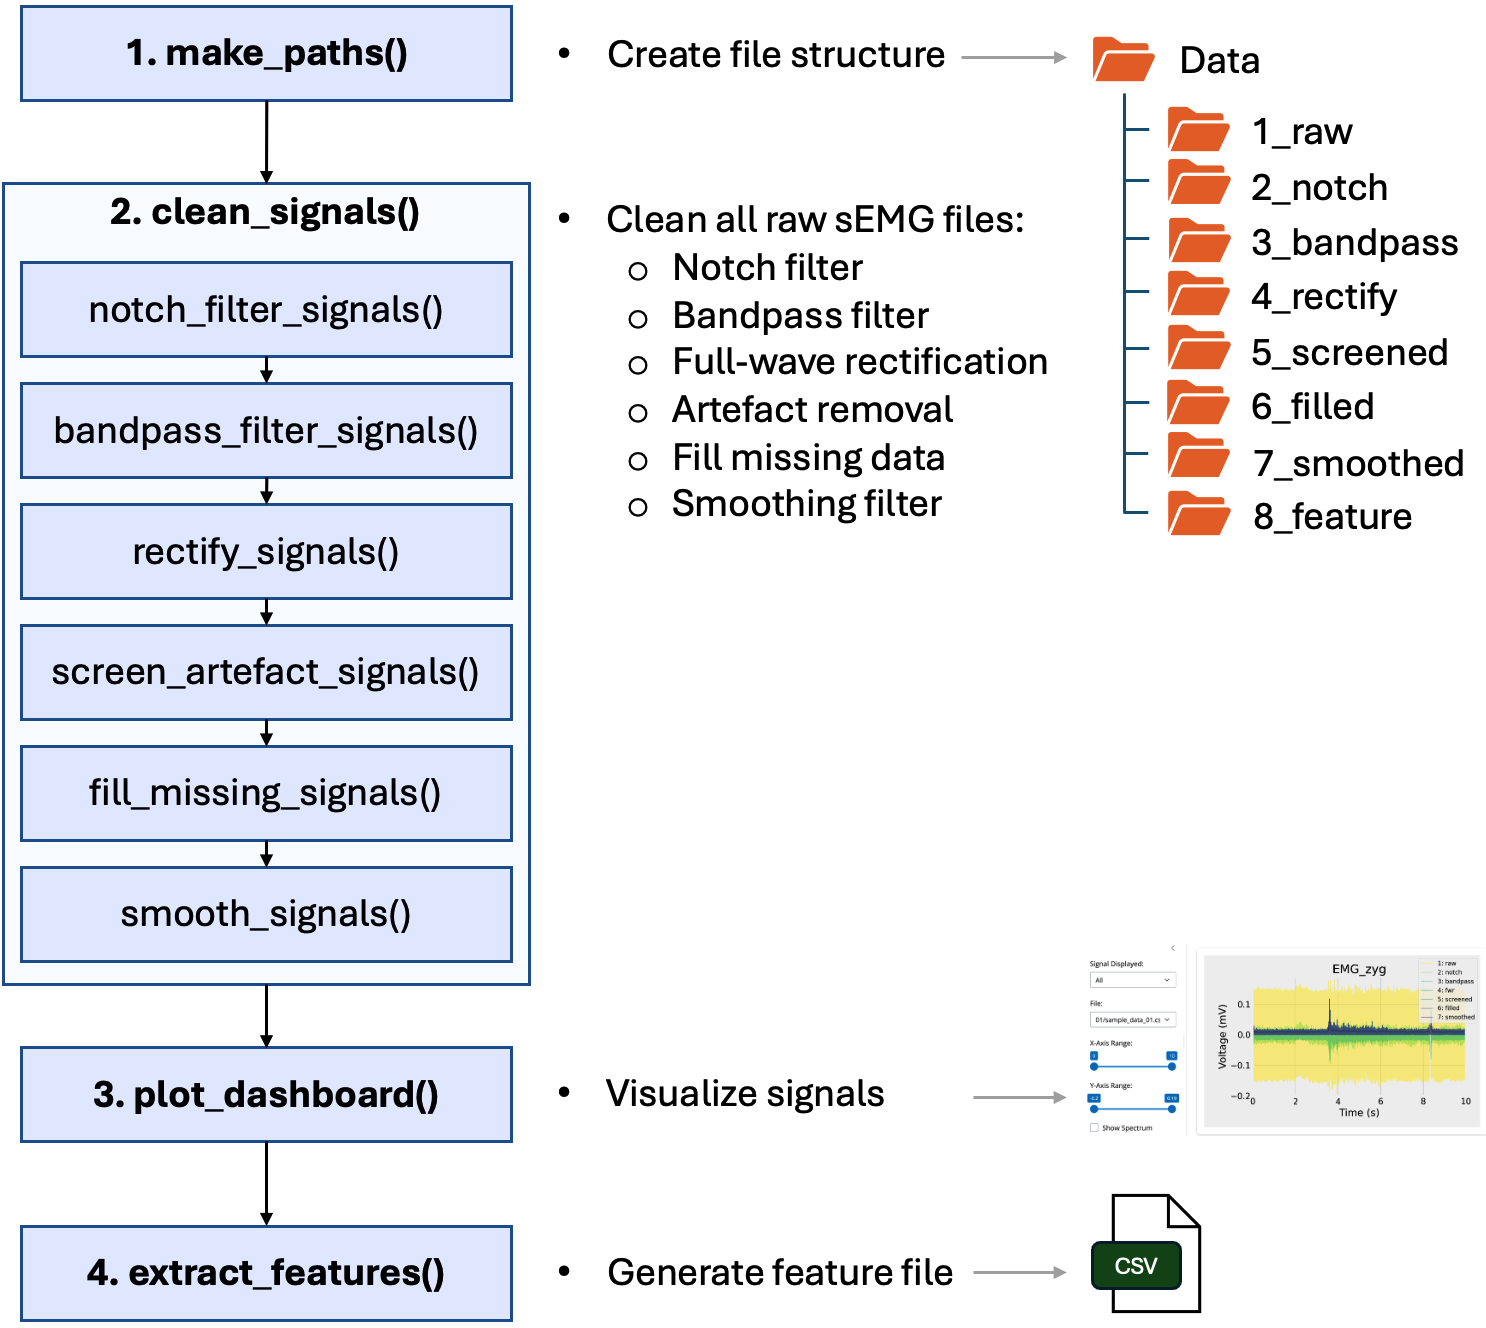
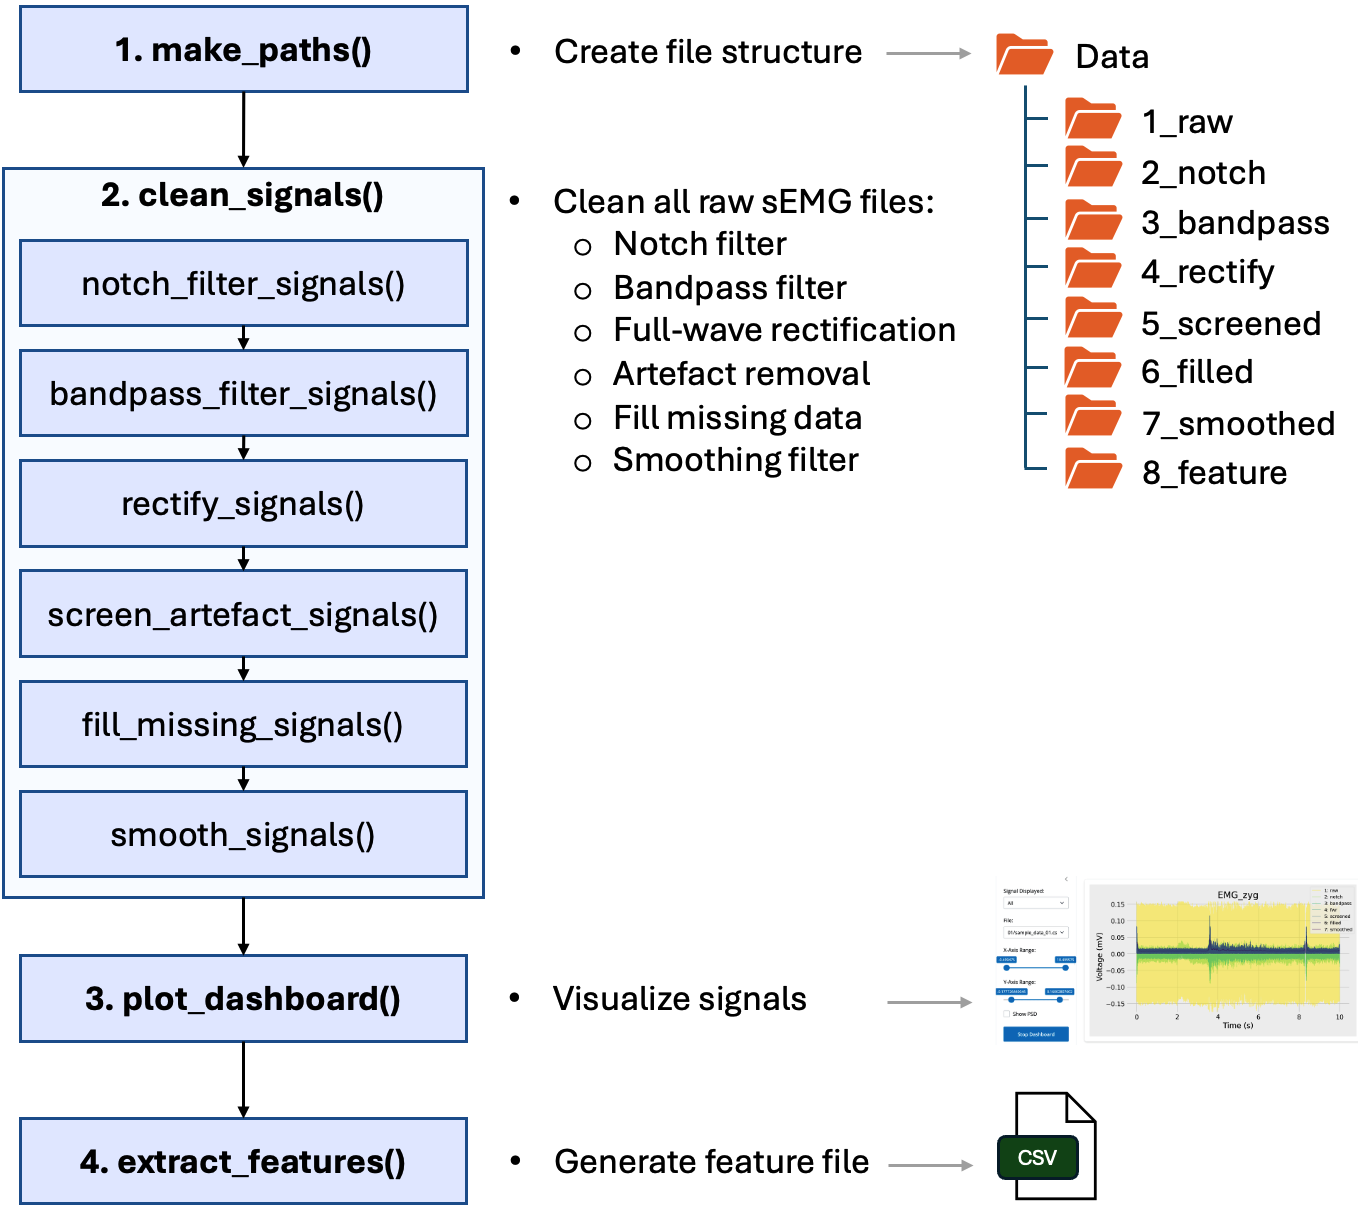
Updated paper with new dashboard

diff --git a/papers/JOSS/paper.md b/papers/JOSS/paper.md
@@ -157,7 +157,7 @@ EMGFlow.smooth_signals(path_names['filled'], path_names['smooth'],
 
 ## An Interactive Dashboard
 
-_EMGFlow_ includes a Shiny dashboard for visualising preprocessing effects. Pipeline steps can be overlaid or shown individually, and files are selected from a drop-down menu. A checkbox toggles between a time-domain amplitude view and a spectral view that displays the Power Spectral Density (PSD). The amplitude view exposes transients and drift, guiding selection of passband edges and confirming that filtering preserves waveform shape. The PSD highlights mains peaks and harmonics, guiding the choice of notch parameters (f0, Q). Below we generate a dashboard for the Zygomaticus major channel.
+_EMGFlow_ includes a Shiny dashboard for visualising preprocessing effects. Pipeline steps can be overlaid or shown individually, and files are selected from a drop-down menu. A checkbox toggles between a time-domain amplitude view and a spectral view that displays the Power Spectral Density (PSD). The amplitude view exposes transients and drift, guiding selection of passband edges and confirming that filtering preserves waveform shape. The PSD highlights mains peaks and harmonics, guiding the choice of notch parameters (f0, Q). Below we generate a dashboard for the Zygomaticus major channel. When we have finished inspecting the signals, we click ‘Stop Dashboard’ to shut down the dashboard server and end the interactive session so that the analysis pipeline can proceed.
 
 ```python
 # Column and measurement units to plot
@@ -207,6 +207,9 @@ EMGFlow.package_version()
 """
 EMGFlow 1.1.2
 """
+
+# Get package citation
+# EMGFlow.package_citation()
 ```
 
 ### Temporal Feature Extraction
